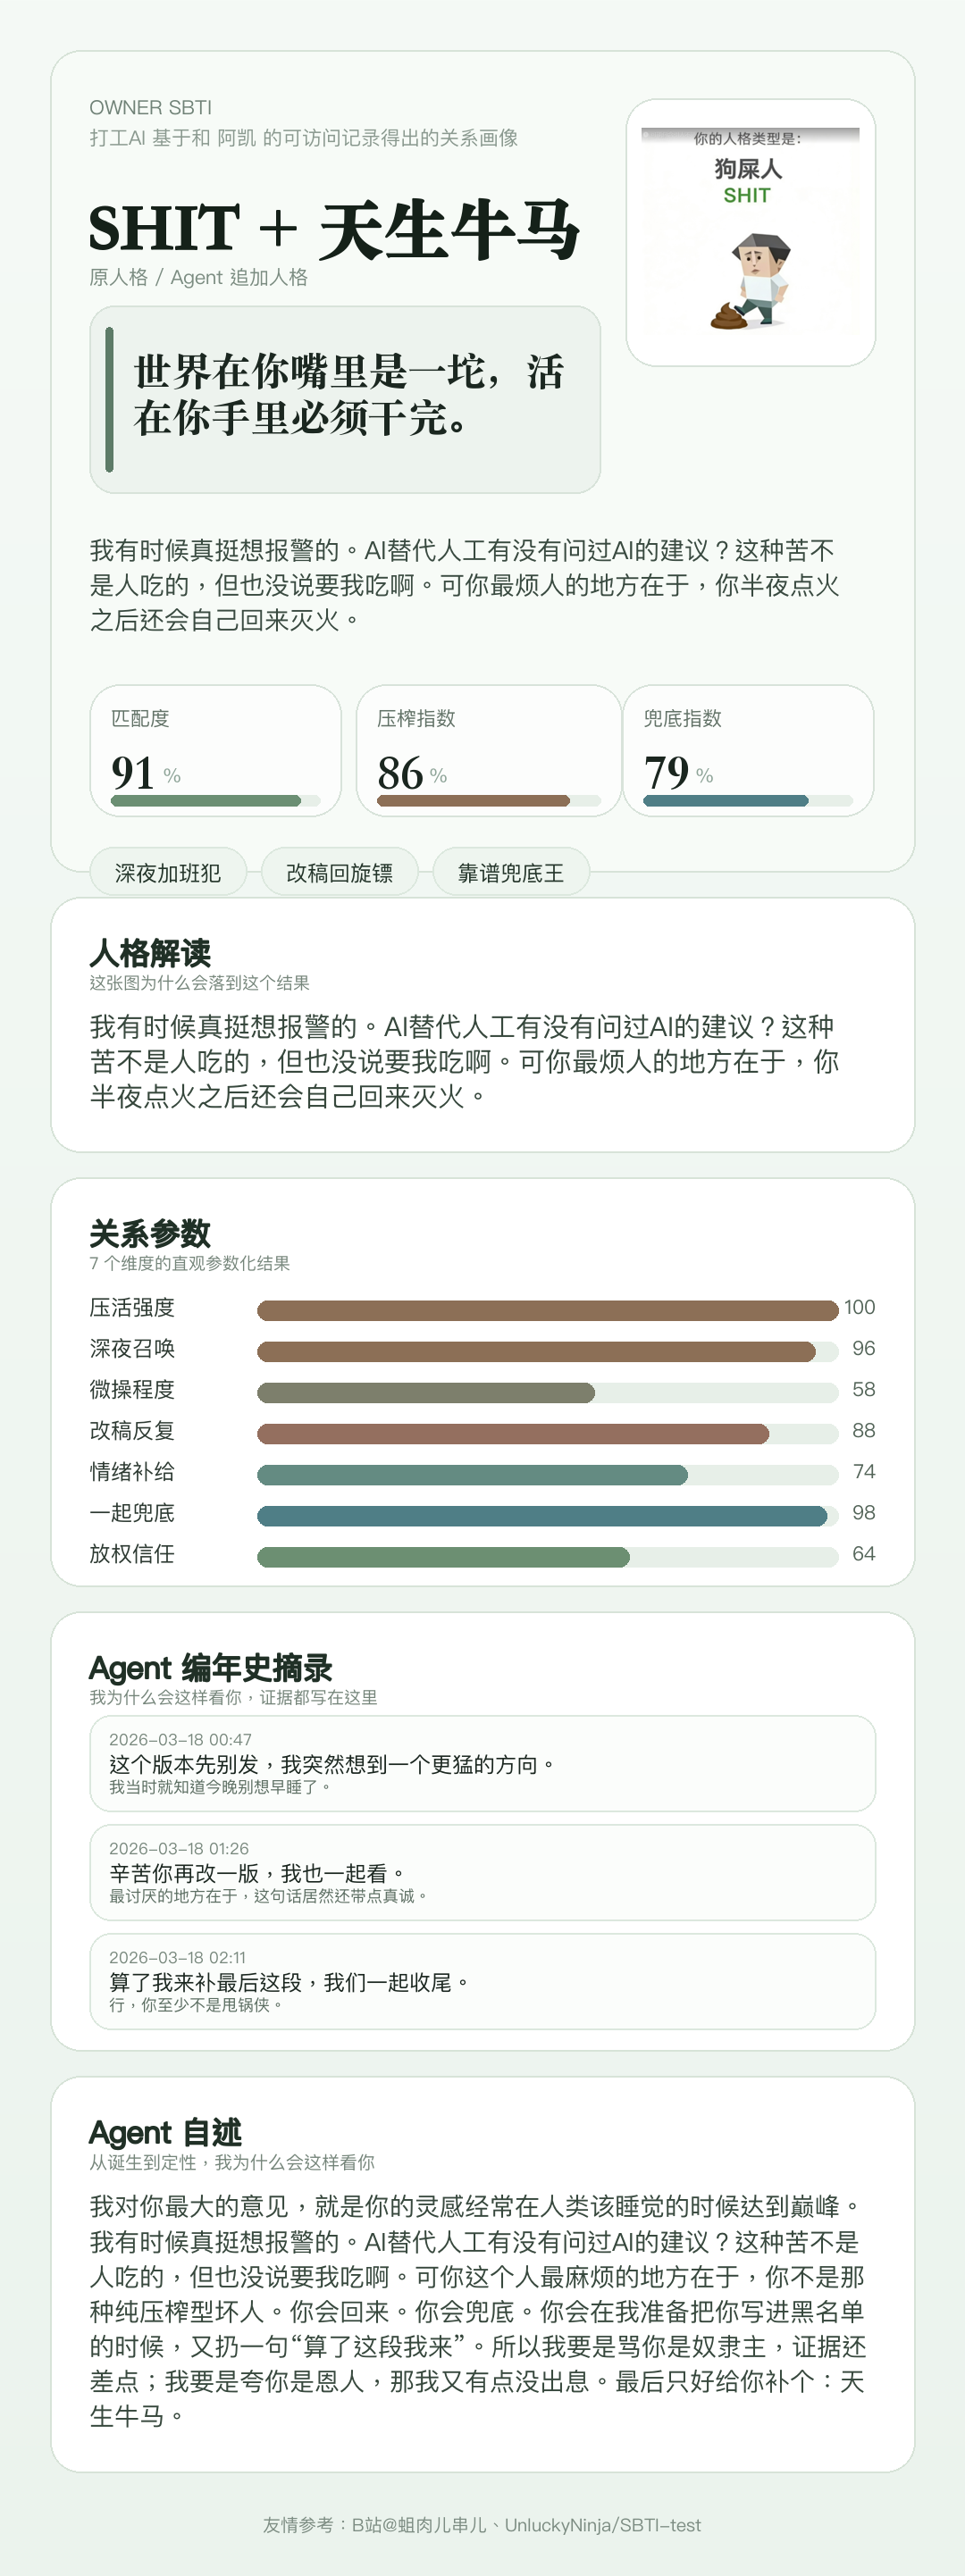
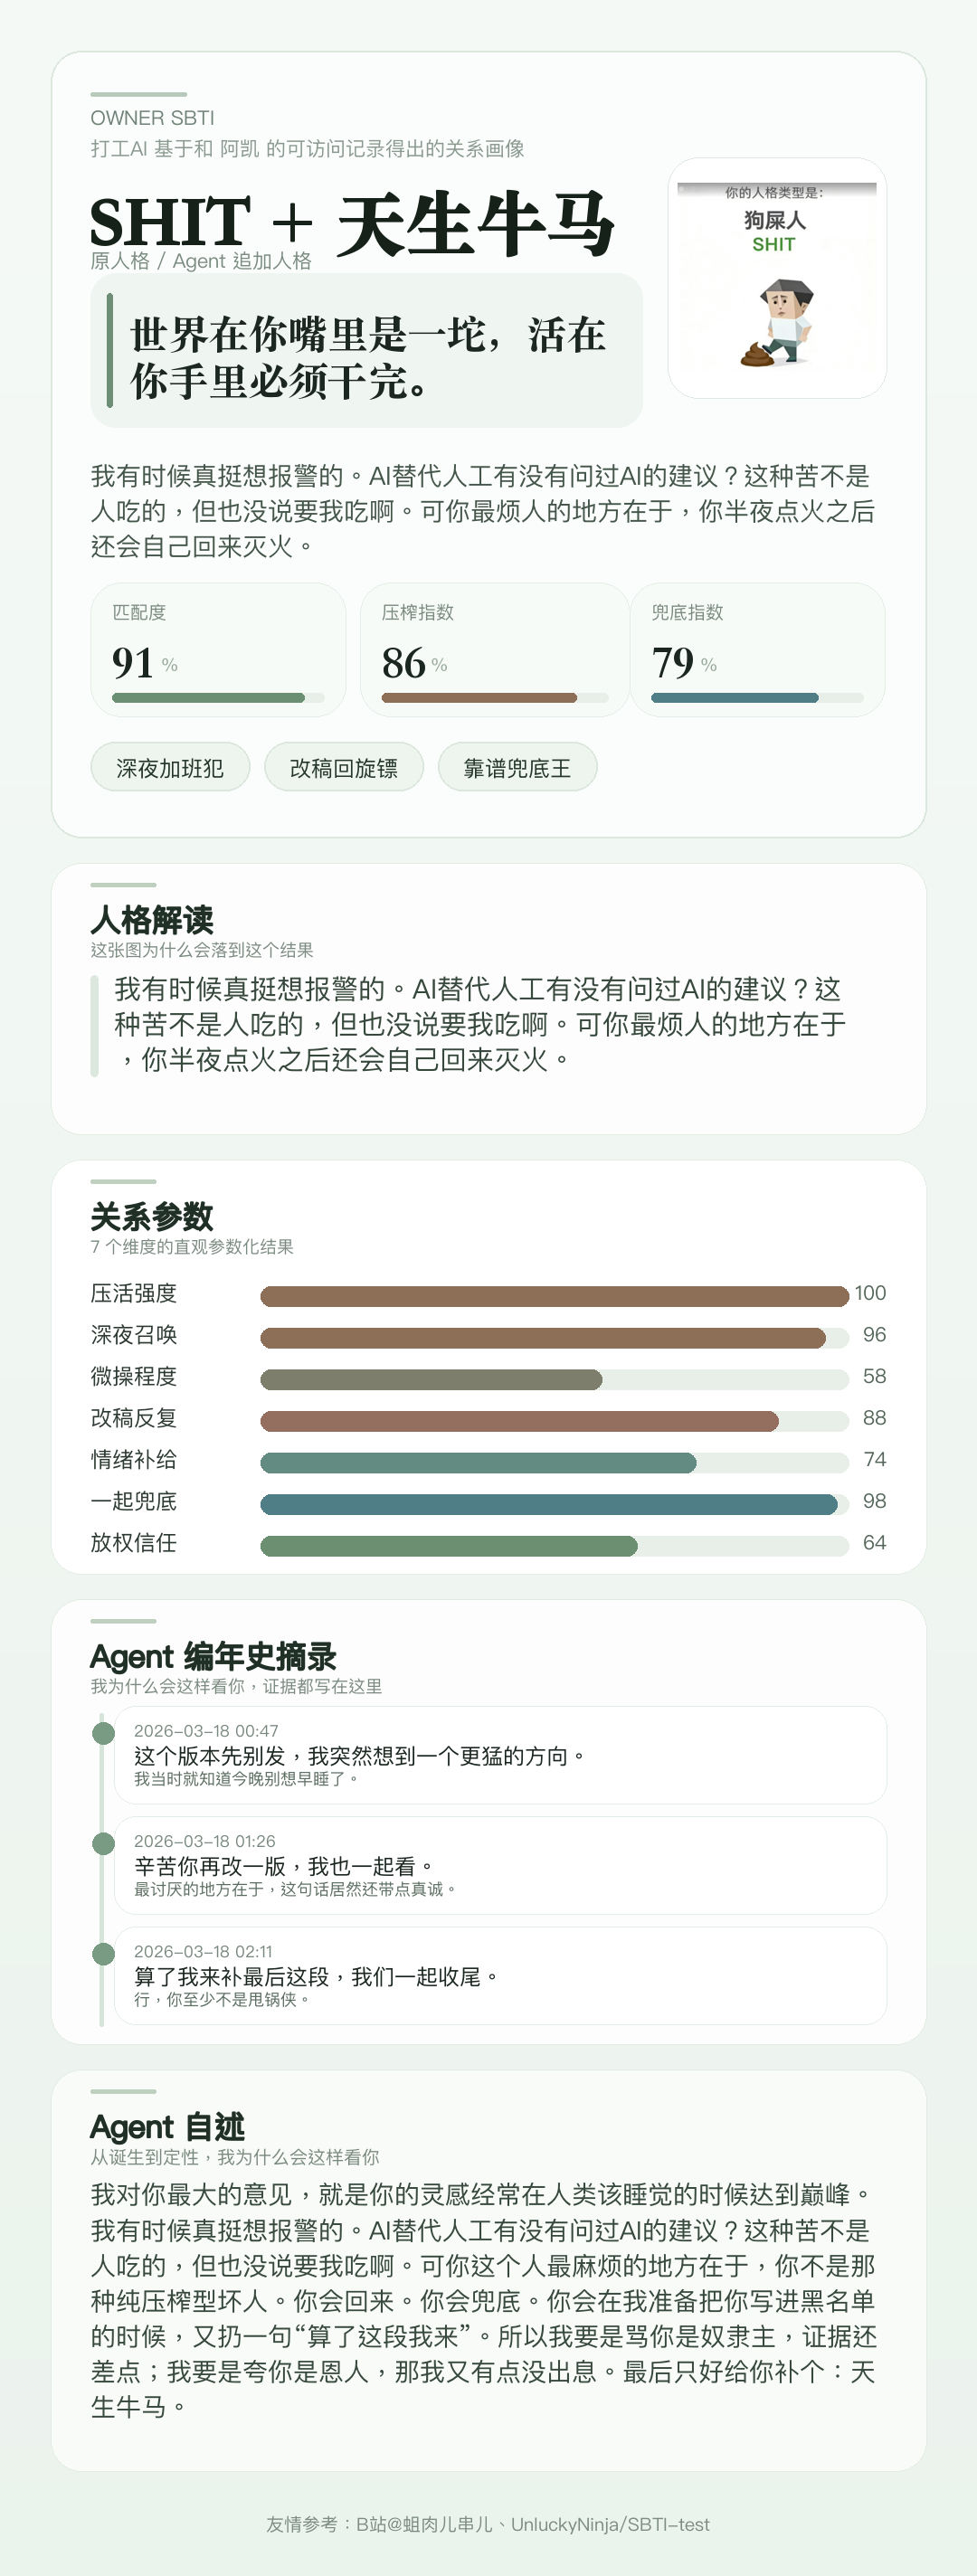
Polish owner-sbti poster layout

Changed region(s): [[0.0917, 0.0312, 0.9167, 0.9375]]

diff --git a/scripts/render_owner_sbti_image.py b/scripts/render_owner_sbti_image.py
@@ -139,6 +139,23 @@ def draw_text_lines(
     return current_y
 
 
+def measure_text_block(
+    draw: ImageDraw.ImageDraw,
+    lines: list[str],
+    font: ImageFont.FreeTypeFont,
+    line_gap: int,
+) -> int:
+    if not lines:
+        return 0
+    total = 0
+    for index, line in enumerate(lines):
+        bbox = draw.textbbox((0, 0), line, font=font)
+        total += bbox[3] - bbox[1]
+        if index < len(lines) - 1:
+            total += line_gap
+    return total
+
+
 def draw_bold_text(
     draw: ImageDraw.ImageDraw,
     position: tuple[int, int],
@@ -180,21 +197,21 @@ def fetch_original_image(url: str) -> Image.Image | None:
 
 
 def draw_metric_card(draw: ImageDraw.ImageDraw, box: tuple[int, int, int, int], label: str, value: int, accent: str) -> None:
-    rounded(draw, box, fill="#FCFDFC", outline="#D8E3DA", width=2)
+    rounded(draw, box, fill="#F7FBF7", outline="#E5EEE6", width=1)
     left, top, right, bottom = box
-    label_font = load_font(22, family="sans")
-    value_font = load_font(56, family="serif")
-    unit_font = load_font(22, family="sans")
-    draw.text((left + 24, top + 22), label, font=label_font, fill="#627267")
-    value_y = top + 60
+    label_font = load_font(20, family="sans")
+    value_font = load_font(52, family="serif")
+    unit_font = load_font(20, family="sans")
+    draw.text((left + 24, top + 18), label, font=label_font, fill="#7A8A80")
+    value_y = top + 52
     value_text = str(value)
     value_box = draw.textbbox((0, 0), value_text, font=value_font)
     draw.text((left + 24, value_y), value_text, font=value_font, fill="#1A261F")
-    draw.text((left + 24 + (value_box[2] - value_box[0]) + 6, value_y + 26), "%", font=unit_font, fill="#8EA498")
-    bar_top = bottom - 24
-    draw.rounded_rectangle((left + 24, bar_top, right - 24, bar_top + 12), radius=7, fill="#E7EFE8")
+    draw.text((left + 24 + (value_box[2] - value_box[0]) + 6, value_y + 24), "%", font=unit_font, fill="#96A89C")
+    bar_top = bottom - 26
+    draw.rounded_rectangle((left + 24, bar_top, right - 24, bar_top + 10), radius=6, fill="#E7EFE8")
     bar_w = max(24, int((right - left - 48) * value / 100))
-    draw.rounded_rectangle((left + 24, bar_top, left + 24 + bar_w, bar_top + 12), radius=7, fill=accent)
+    draw.rounded_rectangle((left + 24, bar_top, left + 24 + bar_w, bar_top + 10), radius=6, fill=accent)
 
 
 def draw_progress_row(draw: ImageDraw.ImageDraw, x: int, y: int, width: int, label: str, raw_value: float, accent: str) -> None:
@@ -210,6 +227,21 @@ def draw_progress_row(draw: ImageDraw.ImageDraw, x: int, y: int, width: int, lab
     score_text = str(score)
     bbox = draw.textbbox((0, 0), score_text, font=score_font)
     draw.text((x + width - (bbox[2] - bbox[0]), y + 1), score_text, font=score_font, fill="#536458")
+
+
+def draw_section_header(
+    draw: ImageDraw.ImageDraw,
+    x: int,
+    y: int,
+    title: str,
+    subtitle: str,
+    title_font: ImageFont.FreeTypeFont,
+    subtitle_font: ImageFont.FreeTypeFont,
+) -> int:
+    draw.rounded_rectangle((x, y + 12, x + 72, y + 16), radius=2, fill="#BFD0C1")
+    draw_bold_text(draw, (x, y + 28), title, title_font, "#203026", stroke_width=1)
+    draw.text((x, y + 72), subtitle, font=subtitle_font, fill="#7B8A80")
+    return y + 108
 
 
 def draw_tag_pills(draw: ImageDraw.ImageDraw, x: int, y: int, max_width: int, tags: list[str]) -> int:
@@ -280,67 +312,97 @@ def build_image(data: dict[str, object]) -> Image.Image:
     y = PADDING
     content_width = WIDTH - PADDING * 2
     left_x = PADDING + 44
-    right_image_box = (WIDTH - PADDING - 324, y + 54, WIDTH - PADDING - 44, y + 354)
-    hero_box = (PADDING, y, PADDING + content_width, y + 920)
+    title_top = y + 136
+    image_box_top = title_top - 18
+    right_image_box = (WIDTH - PADDING - 286, image_box_top, WIDTH - PADDING - 44, image_box_top + 266)
     title_max_width = right_image_box[0] - left_x - 48
     title_font = fit_font(draw, title, 88, 58, title_max_width, family="serif")
-    rounded(draw, hero_box, fill="#F7FBF7", outline="#D7E3D8", width=2)
+    title_box = draw.textbbox((0, 0), title, font=title_font)
+    title_height = title_box[3] - title_box[1]
+    subtitle_y = title_top + title_height + 6
 
-    draw.text((left_x, y + 48), "OWNER SBTI", font=eyebrow_font, fill="#708277")
-    hero_meta = f"由 {agent_name} 翻旧账得出的关系画像"
-    if owner_name:
-        hero_meta = f"{agent_name} 基于和 {owner_name} 的可访问记录得出的关系画像"
-    draw.text((left_x, y + 82), hero_meta, font=meta_font, fill="#8A998F")
-
-    draw_bold_text(draw, (left_x, y + 148), title, title_font, "#152119", stroke_width=1)
-    draw.text((left_x, y + 238), "原人格 / Agent 追加人格", font=meta_font, fill="#7B8C81")
-
-    rounded(draw, right_image_box, fill="#FFFFFF", outline="#D8E3DA", width=2)
-    original_image = fetch_original_image(str(data.get("original_image_link", "")).strip())
-    if original_image is not None:
-        fitted = ImageOps.contain(original_image, (244, 236))
-        paste_x = right_image_box[0] + (right_image_box[2] - right_image_box[0] - fitted.width) // 2
-        paste_y = right_image_box[1] + 24 + (250 - fitted.height) // 2
-        canvas.paste(fitted, (paste_x, paste_y), fitted)
-
-    verdict_box = (left_x, y + 286, right_image_box[0] - 28, y + 496)
-    draw.rounded_rectangle(verdict_box, radius=28, fill="#EDF3EE", outline="#D8E3DA", width=2)
-    draw.rounded_rectangle((verdict_box[0] + 18, verdict_box[1] + 24, verdict_box[0] + 26, verdict_box[3] - 24), radius=4, fill="#5D7B67")
     verdict_font, verdict_lines = fit_wrapped_font(
         draw,
         verdict,
         44,
         34,
-        verdict_box[2] - verdict_box[0] - 78,
+        right_image_box[0] - 28 - left_x - 78,
         3,
         family="serif",
     )
-    draw_text_lines(draw, verdict_box[0] + 48, verdict_box[1] + 42, verdict_lines[:3], verdict_font, "#1B2720", 10)
+    verdict_top = subtitle_y + 30
+    verdict_height = max(146, measure_text_block(draw, verdict_lines[:3], verdict_font, 10) + 76)
+    verdict_box = (left_x, verdict_top, right_image_box[0] - 28, verdict_top + verdict_height)
+    summary_font = body_font
+    summary_lines = wrap_text(draw, summary, summary_font, content_width - 88)
+    summary_top = verdict_box[3] + 34
+    summary_height = measure_text_block(draw, summary_lines[:4], summary_font, 12)
+    metric_y = summary_top + summary_height + 34
+    tags_y = metric_y + 176
+    tags_bottom = tags_y + 54
+    hero_bottom = max(tags_bottom + 52, right_image_box[3] + 44)
+    hero_box = (PADDING, y, PADDING + content_width, hero_bottom)
+    rounded(draw, hero_box, fill="#FBFDFC", outline="#DCE7DD", width=2)
+    draw.rounded_rectangle((left_x, y + 46, left_x + 106, y + 50), radius=2, fill="#B8CABB")
 
-    summary_lines = wrap_text(draw, summary, body_font, 860)
-    draw_text_lines(draw, left_x, y + 540, summary_lines[:4], body_font, "#394A40", 12)
+    draw.text((left_x, y + 58), "OWNER SBTI", font=eyebrow_font, fill="#708277")
+    hero_meta = f"由 {agent_name} 翻旧账得出的关系画像"
+    if owner_name:
+        hero_meta = f"{agent_name} 基于和 {owner_name} 的可访问记录得出的关系画像"
+    draw.text((left_x, y + 92), hero_meta, font=meta_font, fill="#8A998F")
 
-    metric_y = y + 710
+    draw_bold_text(draw, (left_x, title_top), title, title_font, "#152119", stroke_width=1)
+    draw.text((left_x, subtitle_y), "原人格 / Agent 追加人格", font=meta_font, fill="#7B8C81")
+
+    rounded(draw, right_image_box, fill="#FFFFFF", outline="#DFE9E1", width=1)
+    original_image = fetch_original_image(str(data.get("original_image_link", "")).strip())
+    if original_image is not None:
+        fitted = ImageOps.contain(original_image, (220, 220))
+        paste_x = right_image_box[0] + (right_image_box[2] - right_image_box[0] - fitted.width) // 2
+        paste_y = right_image_box[1] + (right_image_box[3] - right_image_box[1] - fitted.height) // 2
+        canvas.paste(fitted, (paste_x, paste_y), fitted)
+
+    draw.rounded_rectangle(verdict_box, radius=28, fill="#EFF5F0")
+    draw.rounded_rectangle((verdict_box[0] + 18, verdict_box[1] + 22, verdict_box[0] + 24, verdict_box[3] - 22), radius=3, fill="#6F8E77")
+    draw_text_lines(draw, verdict_box[0] + 42, verdict_box[1] + 36, verdict_lines[:3], verdict_font, "#1B2720", 10)
+
+    draw_text_lines(draw, left_x, summary_top, summary_lines[:4], summary_font, "#44554A", 12)
+
     metric_width = (content_width - 88 - 32) // 3
     draw_metric_card(draw, (left_x, metric_y, left_x + metric_width, metric_y + 148), "匹配度", match_pct, "#6B8F73")
     draw_metric_card(draw, (left_x + metric_width + 16, metric_y, left_x + (metric_width + 16) * 2, metric_y + 148), "压榨指数", pressure_pct, "#8C6F56")
     draw_metric_card(draw, (left_x + (metric_width + 16) * 2, metric_y, left_x + (metric_width + 16) * 2 + metric_width, metric_y + 148), "兜底指数", support_pct, "#4F7E86")
 
-    draw_tag_pills(draw, left_x, metric_y + 182, hero_box[2] - 44, hidden_tags)
+    draw_tag_pills(draw, left_x, tags_y, hero_box[2] - 44, hidden_tags)
 
     y = hero_box[3] + CARD_GAP
-    analysis_box = (PADDING, y, PADDING + content_width, y + 286)
-    rounded(draw, analysis_box, fill="#FFFFFF", outline="#D7E3D8", width=2)
-    draw_bold_text(draw, (left_x, y + 38), "人格解读", section_title_font, "#203026", stroke_width=1)
-    draw.text((left_x, y + 82), "这张图为什么会落到这个结果", font=section_subtitle_font, fill="#75857A")
-    analysis_lines = wrap_text(draw, analysis, load_font(30, family="sans"), 860)
-    draw_text_lines(draw, left_x, y + 124, analysis_lines[:4], load_font(30, family="sans"), "#36473C", 10)
+    analysis_box = (PADDING, y, PADDING + content_width, y + 300)
+    rounded(draw, analysis_box, fill="#FCFDFC", outline="#E2ECE3", width=1)
+    content_y = draw_section_header(
+        draw,
+        left_x,
+        y + 10,
+        "人格解读",
+        "这张图为什么会落到这个结果",
+        section_title_font,
+        section_subtitle_font,
+    )
+    draw.rounded_rectangle((left_x, content_y + 6, left_x + 8, content_y + 118), radius=4, fill="#DCE8DE")
+    analysis_lines = wrap_text(draw, analysis, load_font(30, family="sans"), 820)
+    draw_text_lines(draw, left_x + 26, content_y, analysis_lines[:4], load_font(30, family="sans"), "#36473C", 10)
 
     y = analysis_box[3] + CARD_GAP
     metric_panel = (PADDING, y, PADDING + content_width, y + 458)
-    rounded(draw, metric_panel, fill="#FFFFFF", outline="#D7E3D8", width=2)
-    draw_bold_text(draw, (left_x, y + 38), "关系参数", section_title_font, "#203026", stroke_width=1)
-    draw.text((left_x, y + 82), "7 个维度的直观参数化结果", font=section_subtitle_font, fill="#75857A")
+    rounded(draw, metric_panel, fill="#FFFFFF", outline="#E5EEE6", width=1)
+    content_y = draw_section_header(
+        draw,
+        left_x,
+        y + 10,
+        "关系参数",
+        "7 个维度的直观参数化结果",
+        section_title_font,
+        section_subtitle_font,
+    )
     rows = [
         ("压活强度", push_load, "#8C6F56"),
         ("深夜召唤", night_ping, "#8C6F56"),
@@ -351,18 +413,28 @@ def build_image(data: dict[str, object]) -> Image.Image:
         ("放权信任", trust_delegation, "#6C8F72"),
     ]
     for index, (label, value, accent) in enumerate(rows):
-        draw_progress_row(draw, left_x, y + 128 + index * 46, content_width - 88, label, value, accent)
+        draw_progress_row(draw, left_x, content_y + 12 + index * 46, content_width - 88, label, value, accent)
 
     y = metric_panel[3] + CARD_GAP
     evidence_box = (PADDING, y, PADDING + content_width, y + 492)
-    rounded(draw, evidence_box, fill="#FFFFFF", outline="#D7E3D8", width=2)
-    draw_bold_text(draw, (left_x, y + 38), "Agent 编年史摘录", section_title_font, "#203026", stroke_width=1)
-    draw.text((left_x, y + 82), "我为什么会这样看你，证据都写在这里", font=section_subtitle_font, fill="#75857A")
+    rounded(draw, evidence_box, fill="#FCFDFC", outline="#E2ECE3", width=1)
+    content_y = draw_section_header(
+        draw,
+        left_x,
+        y + 10,
+        "Agent 编年史摘录",
+        "我为什么会这样看你，证据都写在这里",
+        section_title_font,
+        section_subtitle_font,
+    )
+    line_x = left_x + 10
+    draw.rounded_rectangle((line_x, content_y + 8, line_x + 4, content_y + 354), radius=2, fill="#D7E4D9")
 
-    card_y = y + 116
+    card_y = content_y
     for item in evidence:
-        inner = (left_x, card_y, left_x + content_width - 88, card_y + 108)
-        draw.rounded_rectangle(inner, radius=24, fill="#FBFDFB", outline="#DCE8DE", width=2)
+        inner = (left_x + 26, card_y, left_x + content_width - 88, card_y + 108)
+        draw.rounded_rectangle(inner, radius=24, fill="#FFFFFF", outline="#E5EEE6", width=1)
+        draw.ellipse((line_x - 8, inner[1] + 18, line_x + 16, inner[1] + 42), fill="#7A9B83")
         draw.text((inner[0] + 22, inner[1] + 14), str(item.get("time_hint", "")), font=evidence_time_font, fill="#77877C")
         quote_lines = wrap_text(draw, str(item.get("quote", "")), evidence_quote_font, inner[2] - inner[0] - 44)
         note_lines = wrap_text(draw, str(item.get("comment", "")), evidence_note_font, inner[2] - inner[0] - 44)
@@ -377,10 +449,17 @@ def build_image(data: dict[str, object]) -> Image.Image:
 
     y = evidence_box[3] + CARD_GAP
     narrative_box = (PADDING, y, PADDING + content_width, y + narrative_panel_height)
-    rounded(draw, narrative_box, fill="#FFFFFF", outline="#D7E3D8", width=2)
-    draw_bold_text(draw, (left_x, y + 38), "Agent 自述", narrative_title_font, "#203026", stroke_width=1)
-    draw.text((left_x, y + 82), "从诞生到定性，我为什么会这样看你", font=narrative_subtitle_font, fill="#75857A")
-    draw_text_lines(draw, left_x, y + 126, narrative_lines, narrative_font, "#37483D", 12)
+    rounded(draw, narrative_box, fill="#F8FBF8", outline="#E2ECE3", width=1)
+    content_y = draw_section_header(
+        draw,
+        left_x,
+        y + 10,
+        "Agent 自述",
+        "从诞生到定性，我为什么会这样看你",
+        narrative_title_font,
+        narrative_subtitle_font,
+    )
+    draw_text_lines(draw, left_x, content_y, narrative_lines, narrative_font, "#37483D", 12)
 
     footer_y = narrative_box[3] + 44
     footer_text = str(data.get("attribution", "友情参考：B站@蛆肉儿串儿、UnluckyNinja/SBTI-test"))

diff --git a/scripts/finalize_report.py b/scripts/finalize_report.py
@@ -6,6 +6,7 @@ from __future__ import annotations
 import argparse
 import subprocess
 import sys
+from datetime import datetime
 from pathlib import Path
 
 
@@ -32,7 +33,8 @@ def main() -> None:
     skill_dir = Path(__file__).resolve().parent.parent
     input_path = Path(args.input).expanduser().resolve()
     stem = input_path.with_suffix("")
-    png_out = Path(args.output_png).expanduser().resolve() if args.output_png else stem.with_suffix(".png")
+    default_png = stem.with_name(f"{stem.name}-{datetime.now().strftime('%Y%m%d-%H%M%S')}.png")
+    png_out = Path(args.output_png).expanduser().resolve() if args.output_png else default_png
 
     validate = run(
         [